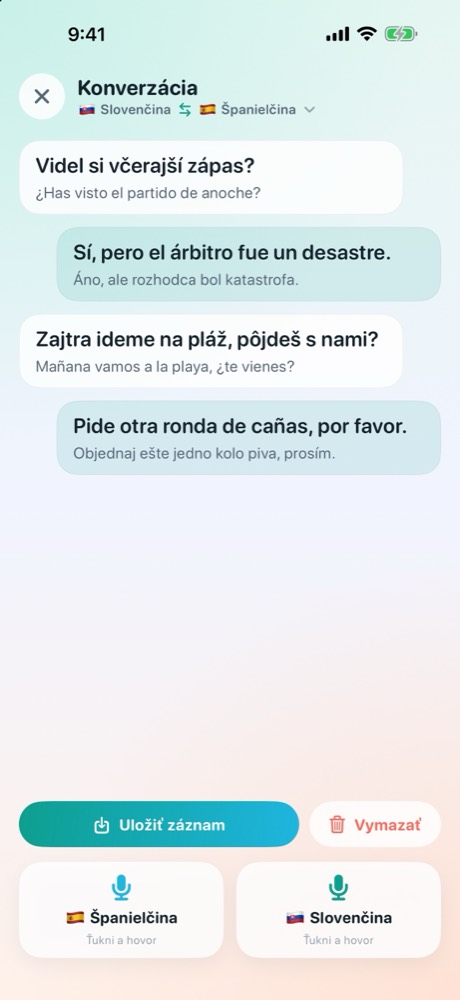
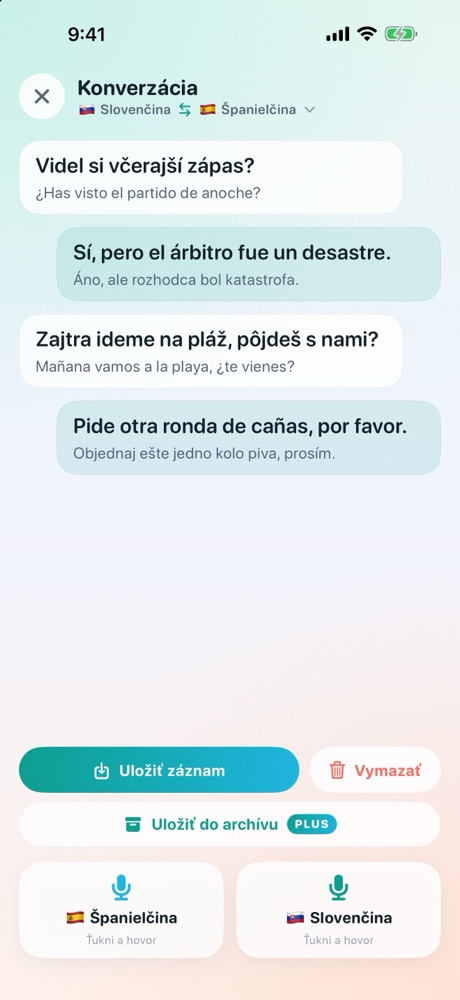
Silent Companion 2.4: presnejšie zásady súkromia, pomoc pri bielej obrazovke a zamrznutí vo verzii 2.3, nové snímky

diff --git a/silent-companion/privacy/index.html b/silent-companion/privacy/index.html
@@ -69,8 +69,8 @@
 <section id="summary">
   <div class="card key">
     <h3><span class="sk">Krátka verzia</span><span class="en">The short version</span></h3>
-    <p class="sk"><strong>Autor o tebe nedostane žiadne údaje.</strong> Silent Companion nemá účet, analytiku, reklamy ani sledovanie. Zvuk z mikrofónu sa spracúva len v telefóne a neukladá sa. Preklad robí prekladač iPhonu alebo prekladač Google priamo v telefóne, alebo online služba DeepL či Microsoft. Vtedy k nej odchádza iba text dokončenej vety, pod tvojím vlastným kľúčom. Prekladač Google je predvolene vypnutý; keď ho zapneš, jeho knižnica posiela Google anonymnú diagnostiku, nikdy text viet.</p>
-    <p class="en"><strong>The author receives no data about you.</strong> Silent Companion has no account, no analytics, no ads and no tracking. Audio from the microphone is processed only on the phone and is never saved. Translation is done by the iPhone translator or the Google translator, right on the phone, or by the online service DeepL or Microsoft. In that case the only thing that leaves the phone is the text of a finished sentence, sent straight to that service under your own key. The Google translator is off by default; if you switch it on, its library sends Google anonymous diagnostics, never the text of sentences.</p>
+    <p class="sk"><strong>Autor o tebe nedostane žiadne údaje.</strong> Silent Companion nemá účet, analytiku, reklamy ani sledovanie. Zvuk z mikrofónu sa spracúva len v telefóne a neukladá sa. Preklad robí prekladač iPhonu alebo prekladač Google priamo v telefóne, alebo online služba DeepL či Microsoft. Vtedy k nej odchádza iba text dokončenej vety, pod tvojím vlastným kľúčom. Prekladač Google je predvolene vypnutý; keď ho zapneš, jeho knižnica posiela Google diagnostiku, ktorá nie je prepojená s tvojou identitou, nikdy text viet.</p>
+    <p class="en"><strong>The author receives no data about you.</strong> Silent Companion has no account, no analytics, no ads and no tracking. Audio from the microphone is processed only on the phone and is never saved. Translation is done by the iPhone translator or the Google translator, right on the phone, or by the online service DeepL or Microsoft. In that case the only thing that leaves the phone is the text of a finished sentence, sent straight to that service under your own key. The Google translator is off by default; if you switch it on, its library sends Google diagnostics that are not linked to your identity, never the text of sentences.</p>
   </div>
 
   <h3><span class="sk">Prevádzkovateľ</span><span class="en">Who runs this</span></h3>
@@ -105,7 +105,7 @@
     <li>Rozpoznaný text a preklady sú len v pamäti telefónu. Po ťuknutí na <em>Zastaviť</em> ostanú na obrazovke, kým nezačneš počúvať znova, neťukneš na <em>Vymazať</em> alebo appku nezavrieš.</li>
     <li><em>Hlas v ušiach</em> aj <em>Čítať nahlas</em> číta titulky hlasom iPhonu priamo v telefóne.</li>
     <li>V <em>konverzačnom režime</em> platí to isté: zvuk ostáva v telefóne a ak prekladá DeepL alebo Microsoft, odchádza k službe len text vety.</li>
-    <li>Ak zapneš <em>Počúvať pri zhasnutom displeji</em>, appka počúva aj po zhasnutí displeja. iPhone pritom celý čas ukazuje oranžovú bodku mikrofónu a na uzamknutej obrazovke upozornenie, že appka počúva. Nič navyše sa neukladá.</li>
+    <li>Ak zapneš <em>Počúvať pri zhasnutom displeji</em>, appka počúva aj po zhasnutí displeja. iPhone pritom celý čas ukazuje oranžovú bodku mikrofónu a na uzamknutej obrazovke upozornenie, že appka počúva (ak má appka povolené upozornenia). Nič navyše sa neukladá.</li>
   </ul>
   <ul class="en">
     <li>The app listens only after you tap <em>Listen</em>, and stops when you tap <em>Stop</em>. A phone call pauses listening.</li>
@@ -114,14 +114,14 @@
     <li>The recognised text and the translations are held only in the phone’s memory. After you tap <em>Stop</em>, they stay on the screen until you start listening again, tap <em>Clear</em> or close the app.</li>
     <li><em>Voice in your ears</em> and <em>Read aloud</em> read the subtitles with the iPhone’s own voice, on the phone.</li>
     <li>In <em>conversation mode</em> the same applies: the audio stays on the phone, and when DeepL or Microsoft translates, only the text of a sentence is sent to that service.</li>
-    <li>If you turn on <em>Listen with the screen off</em>, the app keeps listening after the screen turns off. The iPhone shows the orange microphone indicator the whole time and a notice on the Lock Screen that the app is listening. Nothing extra is stored.</li>
+    <li>If you turn on <em>Listen with the screen off</em>, the app keeps listening after the screen turns off. The iPhone shows the orange microphone indicator the whole time and a notice on the Lock Screen that the app is listening (if notifications are allowed for the app). Nothing extra is stored.</li>
   </ul>
 </section>
 
 <section id="deepl">
   <h2><span class="sk">Preklad</span><span class="en">Translation</span></h2>
-  <p class="sk"><strong>Prekladač iPhonu.</strong> Keď je v Nastaveniach prekladač <em>Automaticky</em> a iPhone má stiahnutý preklad od Apple pre zvolené jazyky, veta sa preloží priamo v telefóne a nikam sa neposiela. Jazyky na preklad sťahuje iPhone sám, appka pri tom nič neposiela. Prekladač iPhonu zatiaľ nevie slovenčinu, češtinu ani maďarčinu. Na tie je voliteľný <a href="#google">prekladač Google v telefóne</a> alebo online služba DeepL či <a href="#microsoft">Microsoft</a>. Pri prekladači <em>Automaticky</em> skúša appka najprv prekladač iPhonu, potom prekladač Google (ak je zapnutý a jazyk stiahnutý), inak zvolenú online službu.</p>
-  <p class="en"><strong>The iPhone translator.</strong> When the translator in Settings is set to <em>Automatic</em> and the iPhone has Apple’s translation downloaded for the chosen languages, the sentence is translated right on the phone and is not sent anywhere. The iPhone itself downloads the translation languages; the app sends nothing in the process. The iPhone translator does not know Slovak, Czech or Hungarian yet. For those there is the optional <a href="#google">Google translator on the phone</a> or the online service DeepL or <a href="#microsoft">Microsoft</a>. With the <em>Automatic</em> translator the app tries the iPhone translator first, then the Google translator (if it is on and the language is downloaded), and otherwise the online service you chose.</p>
+  <p class="sk"><strong>Prekladač iPhonu.</strong> Keď je v Nastaveniach prekladač <em>Automaticky</em> a iPhone má stiahnutý preklad od Apple pre zvolené jazyky, veta sa preloží priamo v telefóne a nikam sa neposiela. Jazyky na preklad sťahuje iPhone sám, appka pri tom nič neposiela. Prekladač iPhonu zatiaľ nevie slovenčinu, češtinu ani maďarčinu. Na tie je voliteľný <a href="#google">prekladač Google v telefóne</a> alebo online služba DeepL či <a href="#microsoft">Microsoft</a>. Pri prekladači <em>Automaticky</em> skúša appka najprv prekladač iPhonu, potom prekladač Google (ak je zapnutý a jazyk stiahnutý), inak zvolenú online službu. Ak telefón niektorú vetu nepreloží a máš uložený kľúč, pošle ju appka online službe.</p>
+  <p class="en"><strong>The iPhone translator.</strong> When the translator in Settings is set to <em>Automatic</em> and the iPhone has Apple’s translation downloaded for the chosen languages, the sentence is translated right on the phone and is not sent anywhere. The iPhone itself downloads the translation languages; the app sends nothing in the process. The iPhone translator does not know Slovak, Czech or Hungarian yet. For those there is the optional <a href="#google">Google translator on the phone</a> or the online service DeepL or <a href="#microsoft">Microsoft</a>. With the <em>Automatic</em> translator the app tries the iPhone translator first, then the Google translator (if it is on and the language is downloaded), and otherwise the online service you chose. If the phone fails to translate a sentence and you have a key saved, the app sends that sentence to the online service.</p>
   <p class="sk"><strong>DeepL.</strong> Ak prekladá online služba DeepL, platí toto:</p>
   <p class="en"><strong>DeepL.</strong> When the online service DeepL translates, the following applies:</p>
   <p class="sk">Keď niekto dopovie vetu, appka pošle jej <strong>text</strong> cez zabezpečené spojenie (HTTPS) službe DeepL, spolu s predchádzajúcou vetou ako kontextom pre presnejší preklad, so zvoleným jazykom titulkov a s tvojím kľúčom DeepL. Zvuk sa neposiela nikdy. Pri vložení kľúča sa appka DeepL opýta, či kľúč platí a koľko z mesačného limitu si už minul.</p>
@@ -153,15 +153,15 @@
   <h2><span class="sk">Prekladač Google v telefóne (Google ML Kit)</span><span class="en">Google translator on the phone (Google ML Kit)</span></h2>
   <p class="sk">Prepínač <em>Prekladač Google v telefóne</em> (Nastavenia, časť <em>Preklad</em>) je predvolene <strong>vypnutý</strong>. Keď ho zapneš, appka prekladá aj knižnicou Google ML Kit priamo v iPhone, bez kľúča a bez internetu. Jazyk sa stiahne raz (asi 30 MB) tlačidlom <em>Stiahnuť preklad Google</em>. Text viet <strong>neopúšťa telefón</strong>.</p>
   <p class="en">The <em>Google translator on the phone</em> switch (Settings, <em>Translation</em>) is <strong>off</strong> by default. When you switch it on, the app also translates with the Google ML Kit library right on the iPhone, without a key and offline. A language is downloaded once (about 30 MB) with <em>Download Google translation</em>. The text of sentences <strong>never leaves the phone</strong>.</p>
-  <p class="sk">Kým je prepínač zapnutý, knižnica Google posiela Google anonymnú diagnostiku: model telefónu, verziu appky a zvolené jazyky. Text viet nikdy. Preto je prepínač vypnutý, kým ho sám nezapneš. Podrobnosti sú v <a href="https://developers.google.com/ml-kit/terms">podmienkach Google ML Kit</a>.</p>
-  <p class="en">While the switch is on, the Google library sends Google anonymous diagnostics: the phone model, the app version and the chosen languages. Never the text of sentences. That is why the switch stays off until you turn it on yourself. The details are in the <a href="https://developers.google.com/ml-kit/terms">Google ML Kit terms</a>.</p>
+  <p class="sk">Kým je prepínač zapnutý, knižnica Google posiela Google diagnostiku a údaje o svojom používaní: model telefónu, verziu appky, zvolené jazyky, identifikátor zariadenia alebo inštalácie a údaje o výkone a chybách. Nie sú prepojené s tvojou identitou a neslúžia na sledovanie. Text viet nikdy. Diagnostika zozbieraná počas zapnutia sa môže odoslať ešte krátko po vypnutí. Preto je prepínač vypnutý, kým ho sám nezapneš. Podrobnosti sú v <a href="https://developers.google.com/ml-kit/terms">podmienkach Google ML Kit</a>.</p>
+  <p class="en">While the switch is on, the Google library sends Google diagnostics and data about its own use: the phone model, the app version, the chosen languages, a device or installation identifier, and performance and error data. They are not linked to your identity and are not used for tracking. Never the text of sentences. Diagnostics collected while the switch was on may still be sent shortly after you turn it off. That is why the switch stays off until you turn it on yourself. The details are in the <a href="https://developers.google.com/ml-kit/terms">Google ML Kit terms</a>.</p>
 </section>
 
 <section id="phone">
   <h2><span class="sk">Čo ostáva v telefóne a ako to zmažeš</span><span class="en">What stays on your phone, and how to erase it</span></h2>
   <ul class="sk">
     <li><strong>Kľúč DeepL</strong> a <strong>kľúč Microsoft</strong> sú uložené v Kľúčenke iPhonu (Keychain). Zmažeš ich v Nastaveniach appky tlačidlom <em>Vymazať kľúč</em>.</li>
-    <li><strong>Jazyky prekladača Google</strong> (asi 30 MB každý), ak si ich stiahol, sú uložené v telefóne. Zmiznú, keď appku odinštaluješ.</li>
+    <li><strong>Jazyky prekladača Google</strong> (asi 30 MB každý), ak si ich stiahol, sú uložené v telefóne. Od verzie 2.4 ich odstrániš v Nastaveniach tlačidlom <em>Odstrániť stiahnuté jazyky</em>. Zmiznú aj vtedy, keď appku odinštaluješ.</li>
     <li><strong>Nastavenia appky</strong> (napríklad jazyky, mikrofón, prostredie a hlas) sú uložené v telefóne. Zmiznú, keď appku odinštaluješ.</li>
     <li><strong>Dobrovoľný tip</strong> v Nastaveniach je nákup v appke cez App Store. Platbu spracúva Apple, autor appky nedostáva ani neukladá žiadne platobné údaje a appka sa po tipe nijako nezmení.</li>
     <li><strong>Archív (Silent Companion Plus):</strong> titulky alebo rozhovor appka uloží do archívu, len keď ťukneš na <em>Uložiť do archívu</em>. Záznam ostane v iPhone v priečinku appky, chránený šifrovaním iOS, mimo zálohy iCloud aj počítača, a nikam sa neposiela. Vymažeš ho v Archíve alebo odstránením appky. Nákup Plus spracúva Apple rovnako ako tip.</li>
@@ -169,7 +169,7 @@
   </ul>
   <ul class="en">
     <li><strong>Your DeepL key</strong> and <strong>Microsoft key</strong> are stored in the iPhone’s Keychain. You can delete them in the app’s settings with <em>Delete key</em>.</li>
-    <li><strong>Google translator languages</strong> (about 30 MB each), if you downloaded them, are stored on the phone. They are removed when you delete the app.</li>
+    <li><strong>Google translator languages</strong> (about 30 MB each), if you downloaded them, are stored on the phone. From version 2.4 you can remove them in Settings with <em>Remove downloaded languages</em>. They are also removed when you delete the app.</li>
     <li><strong>The app’s settings</strong> (such as languages, microphone, surroundings and voice) are stored on the phone. They are removed when you delete the app.</li>
     <li>The <strong>voluntary tip</strong> in Settings is an in-app purchase through the App Store. Apple processes the payment; the app’s author receives and stores no payment details, and the app does not change after a tip.</li>
     <li><strong>Archive (Silent Companion Plus):</strong> the app saves subtitles or a conversation to the archive only when you tap <em>Save to archive</em>. The record stays on the iPhone in the app’s folder, protected by iOS encryption, excluded from iCloud and computer backups, and is never sent anywhere. Delete it in the Archive or by removing the app. Apple processes the Plus purchase just like a tip.</li>
@@ -201,8 +201,8 @@
   <p class="en">Silent Companion is not directed to children. The author collects no data from anyone, children included.</p>
 
   <h3><span class="sk">Zmeny týchto zásad</span><span class="en">Changes to this policy</span></h3>
-  <p class="sk">Každú zmenu zverejním na tejto stránke spolu s novým dátumom účinnosti. Ak by appka niekedy mala posielať iné údaje ako text viet na preklad (a anonymnú diagnostiku prekladača Google, ak ho zapneš), jasne to oznámim priamo v aplikácii.</p>
-  <p class="en">Any change will be published on this page with a new effective date. If the app were ever to send anything other than sentence text for translation (and the anonymous diagnostics of the Google translator, if you switch it on), I would say so clearly inside the app.</p>
+  <p class="sk">Každú zmenu zverejním na tejto stránke spolu s novým dátumom účinnosti. Ak by appka niekedy mala posielať iné údaje ako text viet na preklad (a diagnostiku prekladača Google, ak ho zapneš), jasne to oznámim priamo v aplikácii.</p>
+  <p class="en">Any change will be published on this page with a new effective date. If the app were ever to send anything other than sentence text for translation (and the diagnostics of the Google translator, if you switch it on), I would say so clearly inside the app.</p>
 
   <h3><span class="sk">Kontakt</span><span class="en">Contact</span></h3>
   <p class="sk">Ján Šikuta · <a class="mail" href="mailto:admin@breathune.eu">admin@breathune.eu</a></p>
@@ -213,8 +213,8 @@
 
 <footer>
   <div class="wrap">
-    <p class="sk">Účinné od <strong>12. novembra 2026</strong>. <span data-fz>Silent Companion</span> · Ján Šikuta · <a href="https://orcid.org/0000-0002-4690-0317" rel="me noopener" target="_blank">ORCID</a> · <a href="/">breathune.eu</a> · <a href="../">Podpora</a></p>
-    <p class="en">Effective <strong>12 November 2026</strong>. <span data-fz>Silent Companion</span> · Ján Šikuta · <a href="https://orcid.org/0000-0002-4690-0317" rel="me noopener" target="_blank">ORCID</a> · <a href="/">breathune.eu</a> · <a href="../">Support</a></p>
+    <p class="sk">Účinné od <strong>14. novembra 2026</strong>. <span data-fz>Silent Companion</span> · Ján Šikuta · <a href="https://orcid.org/0000-0002-4690-0317" rel="me noopener" target="_blank">ORCID</a> · <a href="/">breathune.eu</a> · <a href="../">Podpora</a></p>
+    <p class="en">Effective <strong>14 November 2026</strong>. <span data-fz>Silent Companion</span> · Ján Šikuta · <a href="https://orcid.org/0000-0002-4690-0317" rel="me noopener" target="_blank">ORCID</a> · <a href="/">breathune.eu</a> · <a href="../">Support</a></p>
   </div>
 </footer>
 

diff --git a/silent-companion/index.html b/silent-companion/index.html
@@ -216,8 +216,8 @@
     <p class="sk">Hlas z televízora je pre appku rovnaká reč ako hlas človeka. Najistejšie je stíšiť ho. Smerový mikrofón pomôže, keď je televízor <strong>za telefónom</strong>, čiastočne, keď je <strong>zboku</strong>, a vôbec nie, keď je <strong>za hovoriacim</strong>. Ak sa televízor stíšiť nedá, posaď hovoriaceho do 1 metra od telefónu a zvoľ prostredie <em>Hlučné miesto</em>: filter Apple nechá blízky hlas a vzdialené zvuky stlmí. Na väčšiu vzdialenosť pomôže len mikrofón pri ústach hovoriaceho, napríklad AirPods alebo mikrofón s klipom.</p>
     <p class="en">To the app, a voice from the TV is just as much speech as a person’s. The surest fix is to turn it down. A directional microphone helps when the TV is <strong>behind the phone</strong>, partly when it is <strong>to the side</strong>, and not at all when it is <strong>behind the speaker</strong>. If the TV can’t be turned down, seat the speaker within 1 metre of the phone and choose <em>Noisy place</em>: Apple’s filter keeps the close voice and damps distant sounds. For a greater distance only a microphone at the speaker’s mouth helps, for example AirPods or a clip-on mic.</p>
   </div>
-  <p class="mic-plus sk"><strong>Plán miestnosti</strong> (súčasť Plus, pokusné): nakreslíš izbu, telefón, hovoriaceho a zdroj hluku a appka odporučí nastavenie. <strong>Skúška naživo</strong> potom vyskúša tri nastavenia, kým hovoriaci rozpráva, a ponechá to, ktorému appka najviac rozumela. Slová sa nikam neukladajú.</p>
-  <p class="mic-plus en"><strong>Room plan</strong> (part of Plus, experimental): draw the room, the phone, the speaker and any noise source, and the app suggests a setting. The <strong>live test</strong> then tries three settings while the speaker talks and keeps the one the app understood best. No words are stored.</p>
+  <p class="mic-plus sk"><strong>Plán miestnosti</strong> (súčasť Plus, pokusné): nakreslíš izbu, telefón, hovoriaceho a zdroj hluku a appka odporučí nastavenie. <strong>Skúška naživo</strong> potom vyskúša dve alebo tri nastavenia, kým hovoriaci rozpráva, a ponechá to, ktorému appka najviac rozumela. Slová sa nikam neukladajú.</p>
+  <p class="mic-plus en"><strong>Room plan</strong> (part of Plus, experimental): draw the room, the phone, the speaker and any noise source, and the app suggests a setting. The <strong>live test</strong> then tries two or three settings while the speaker talks and keeps the one the app understood best. No words are stored.</p>
 </section>
 
 <section class="band" id="plus">
@@ -291,8 +291,8 @@
 
   <div class="band-head" id="background" style="margin-top:44px">
     <h3 style="font-size:22px"><span class="sk">Pri zhasnutom displeji, ale nikdy potajomky</span><span class="en">With the screen off, but never in secret</span></h3>
-    <p class="sk">Na konferencii alebo rokovaní, kde svetlo displeja ruší, zapni v Nastaveniach <em>Počúvať pri zhasnutom displeji</em> (súčasť Plus). Appka počúva ďalej a prepis si pozrieš potom. iPhone pritom celý čas ukazuje oranžovú bodku mikrofónu a na uzamknutej obrazovke upozornenie, že appka počúva. Ak si rozhovor ukladáš, povedz to ostatným.</p>
-    <p class="en">At a conference or meeting where a lit screen disturbs, turn on <em>Listen with the screen off</em> in Settings (part of Plus). The app keeps listening and you read the transcript afterwards. The iPhone shows the orange microphone indicator the whole time and a notice on the Lock Screen that the app is listening. If you save the conversation, tell the others.</p>
+    <p class="sk">Na konferencii alebo rokovaní, kde svetlo displeja ruší, zapni v Nastaveniach <em>Počúvať pri zhasnutom displeji</em> (súčasť Plus). Appka počúva ďalej a prepis si pozrieš potom. iPhone pritom celý čas ukazuje oranžovú bodku mikrofónu a na uzamknutej obrazovke upozornenie, že appka počúva (ak má povolené upozornenia). Ak si rozhovor ukladáš, povedz to ostatným.</p>
+    <p class="en">At a conference or meeting where a lit screen disturbs, turn on <em>Listen with the screen off</em> in Settings (part of Plus). The app keeps listening and you read the transcript afterwards. The iPhone shows the orange microphone indicator the whole time and a notice on the Lock Screen that the app is listening (if notifications are allowed). If you save the conversation, tell the others.</p>
   </div>
 </section>
 
@@ -303,7 +303,7 @@
   </div>
   <div class="trust">
     <div><b class="sk">Zvuk ostáva v iPhone</b><b class="en">Audio stays on the iPhone</b><span class="sk">Reč sa rozpoznáva v telefóne a prekladač iPhonu aj prekladač Google prekladajú tiež v ňom. Ak prekladá DeepL alebo Microsoft, odchádza len text dokončenej vety, priamo tejto službe.</span><span class="en">Speech is recognised on the phone, and the iPhone and Google translators work on it too. When DeepL or Microsoft translates, only the text of a finished sentence goes out, straight to that service.</span></div>
-    <div><b class="sk">Bez účtu a analytiky</b><b class="en">No account, no analytics</b><span class="sk">Žiadna registrácia, reklama ani sledovanie. Kľúč DeepL alebo Microsoft, ak ho používaš, je v Kľúčenke iPhonu. Prekladač Google posiela Google anonymnú diagnostiku, len ak ho zapneš.</span><span class="en">No sign-up, ads or tracking. Your DeepL or Microsoft key, if you use one, is kept in the iPhone Keychain. The Google translator sends Google anonymous diagnostics only if you switch it on.</span></div>
+    <div><b class="sk">Bez účtu a analytiky</b><b class="en">No account, no analytics</b><span class="sk">Žiadna registrácia, reklama ani sledovanie. Kľúč DeepL alebo Microsoft, ak ho používaš, je v Kľúčenke iPhonu. Prekladač Google posiela Google diagnostiku (nikdy text viet), len ak ho zapneš.</span><span class="en">No sign-up, ads or tracking. Your DeepL or Microsoft key, if you use one, is kept in the iPhone Keychain. The Google translator sends Google diagnostics (never the text of sentences) only if you switch it on.</span></div>
     <div><b class="sk">Archív len u teba</b><b class="en">Archive only with you</b><span class="sk">Záznam vznikne, len keď ho uložíš. Je šifrovaný a nejde do zálohy ani na internet.</span><span class="en">A record exists only if you save it. It is encrypted and never goes to backups or online.</span></div>
   </div>
   <p style="margin-top:16px"><a href="privacy/"><span class="sk">Zásady ochrany súkromia</span><span class="en">Privacy policy</span> →</a></p>
@@ -394,9 +394,9 @@
   <p class="sk">Reč rozpoznáva priamo iPhone, používa na to rozpoznávanie reči od Apple. Zvuk z mikrofónu neopúšťa telefón a nikam sa neukladá.</p>
   <p class="en">Speech is recognised right on the iPhone, using Apple’s speech recognition. Audio from the microphone never leaves the phone and is never saved.</p>
   <p class="sk">Keď niekto dopovie vetu, appka ju preloží. Pri prekladači <em>Automaticky</em> (Nastavenia, časť <em>Preklad</em>) skúša v tomto poradí: najprv prekladač iPhonu od Apple, ak má stiahnutý preklad pre tvoje dva jazyky, potom prekladač Google v telefóne, ak si ho zapol a jazyk je stiahnutý. Oba prekladajú priamo v telefóne, bez kľúča a aj bez internetu. Inak pošle text vety cez zabezpečené spojenie online službe, ktorú si zvolil (DeepL alebo Microsoft). Na to potrebuje internet a tvoj vlastný kľúč (návod je vyššie). Pri voľbe <em>Vždy online služba</em> prekladá vždy online služba. Preklad sa potom ukáže ako titulok.</p>
-  <p class="sk">Prekladač iPhonu zatiaľ nevie slovenčinu, češtinu ani maďarčinu, prekladač Google áno. Jazyk Google sa stiahne raz (asi 30 MB) tlačidlom <em>Stiahnuť preklad Google</em>. Prepínač <em>Prekladač Google v telefóne</em> je predvolene vypnutý: text viet z telefónu neodchádza, ale knižnica Google posiela Google anonymnú diagnostiku (model telefónu, verziu appky, zvolené jazyky, nikdy text viet). Viac v <a href="privacy/#google">zásadách ochrany súkromia</a>. V Nastaveniach vidíš aj riadok, kto tvoju dvojicu jazykov prekladá, napríklad „Slovenčina → Angličtina: prekladá Microsoft cez internet“.</p>
+  <p class="sk">Prekladač iPhonu zatiaľ nevie slovenčinu, češtinu ani maďarčinu, prekladač Google áno. Jazyk Google sa stiahne raz (asi 30 MB) tlačidlom <em>Stiahnuť preklad Google</em>. Prepínač <em>Prekladač Google v telefóne</em> je predvolene vypnutý: text viet z telefónu neodchádza, ale knižnica Google posiela Google diagnostiku (napríklad model telefónu, verziu appky a zvolené jazyky, nikdy text viet). Viac v <a href="privacy/#google">zásadách ochrany súkromia</a>. V Nastaveniach vidíš aj riadok, kto tvoju dvojicu jazykov prekladá, napríklad „Slovenčina → Angličtina: prekladá Microsoft cez internet“.</p>
   <p class="en">When someone finishes a sentence, the app translates it. With the <em>Automatic</em> translator (Settings, <em>Translation</em>) it tries in this order: first Apple’s iPhone translator, if it has your two languages downloaded, then the Google translator on the phone, if you switched it on and the language is downloaded. Both translate right on the phone, without a key and even offline. Otherwise the app sends the text over a secure connection to the online service you chose (DeepL or Microsoft). For that it needs an internet connection and your own key (see above). With <em>Always online service</em>, the online service always translates. The translation then appears as a subtitle.</p>
-  <p class="en">The iPhone translator does not know Slovak, Czech or Hungarian yet; the Google translator does. A Google language is downloaded once (about 30 MB) with <em>Download Google translation</em>. The <em>Google translator on the phone</em> switch is off by default: the sentence text never leaves the phone, but the Google library sends Google anonymous diagnostics (phone model, app version, chosen languages, never the text of sentences). More in the <a href="privacy/#google">privacy policy</a>. Settings also show a line saying who translates your language pair, for example “Slovak → English: translated by Microsoft online”.</p>
+  <p class="en">The iPhone translator does not know Slovak, Czech or Hungarian yet; the Google translator does. A Google language is downloaded once (about 30 MB) with <em>Download Google translation</em>. The <em>Google translator on the phone</em> switch is off by default: the sentence text never leaves the phone, but the Google library sends Google diagnostics (for example the phone model, app version and chosen languages, never the text of sentences). More in the <a href="privacy/#google">privacy policy</a>. Settings also show a line saying who translates your language pair, for example “Slovak → English: translated by Microsoft online”.</p>
   <p class="sk">Keď ťukneš na <em>Zastaviť</em>, titulky ostanú na obrazovke, kým nezačneš počúvať znova alebo neťukneš na <em>Vymazať</em>. Ak chceš, ťukni na <em>Uložiť záznam</em> a rozhovor si ulož ako text (preklad aj originál s časom), napríklad do Poznámok alebo Súborov. Appka sama si z rozhovoru nič nepamätá, kým ho neuložíš do <a href="#plus">archívu</a>.</p>
   <p class="en">When you tap <em>Stop</em>, the subtitles stay on the screen until you start listening again or tap <em>Clear</em>. If you like, tap <em>Save transcript</em> to keep the conversation as text (translation and original with the time), for example in Notes or Files. The app itself keeps nothing of the conversation unless you save it to the <a href="#plus">archive</a>.</p>
 
@@ -426,6 +426,12 @@
     <summary><span class="sk">„Tento jazyk ešte nie je v iPhone stiahnutý.“</span><span class="en">The app says the language isn’t downloaded</span></summary>
     <p class="sk">iPhone ešte nemá stiahnutý jazyk okolia, ktorý si vybral. Pripoj sa na Wi-Fi a ťukni priamo pod hláškou na <em>Stiahnuť teraz</em>, alebo v Nastaveniach na <em>Stiahnuť ďalší jazyk</em>. Rozpoznávanie reči potom beží aj bez internetu. Preklad cez DeepL alebo Microsoft internet potrebuje, prekladač iPhonu a prekladač Google v telefóne nie.</p>
     <p class="en">Your iPhone hasn’t downloaded the language you picked yet. Connect to Wi-Fi and tap <em>Download now</em> right below the message, or <em>Download another language</em> in Settings. After that, speech recognition works even without internet. Translation by DeepL or Microsoft needs a connection, the iPhone translator and the Google translator on the phone do not.</p>
+  </details>
+
+  <details>
+    <summary><span class="sk">Appka ukazuje len bielu obrazovku alebo prestala reagovať</span><span class="en">The app shows only a white screen or stopped responding</span></summary>
+    <p class="sk">Je to chyba verzie 2.3, opravená vo verzii 2.4. Aktualizuj appku v App Store. Kým aktualizáciu nemáš: pri bielej obrazovke po spustení zmenši písmo v iPhone (Nastavenia, Displej a jas, Veľkosť textu), po aktualizácii ho môžeš vrátiť. Jazyk sťahuj v Nastaveniach appky cez <em>Stiahnuť ďalší jazyk</em>, nie tlačidlom na hlavnej obrazovke.</p>
+    <p class="en">This is a bug in version 2.3, fixed in version 2.4. Update the app in the App Store. Until you have the update: if the app shows a white screen after launch, make the text smaller on your iPhone (Settings, Display &amp; Brightness, Text Size); you can set it back after the update. Download languages in the app’s Settings with <em>Download another language</em>, not with the button on the main screen.</p>
   </details>
 
   <details>
